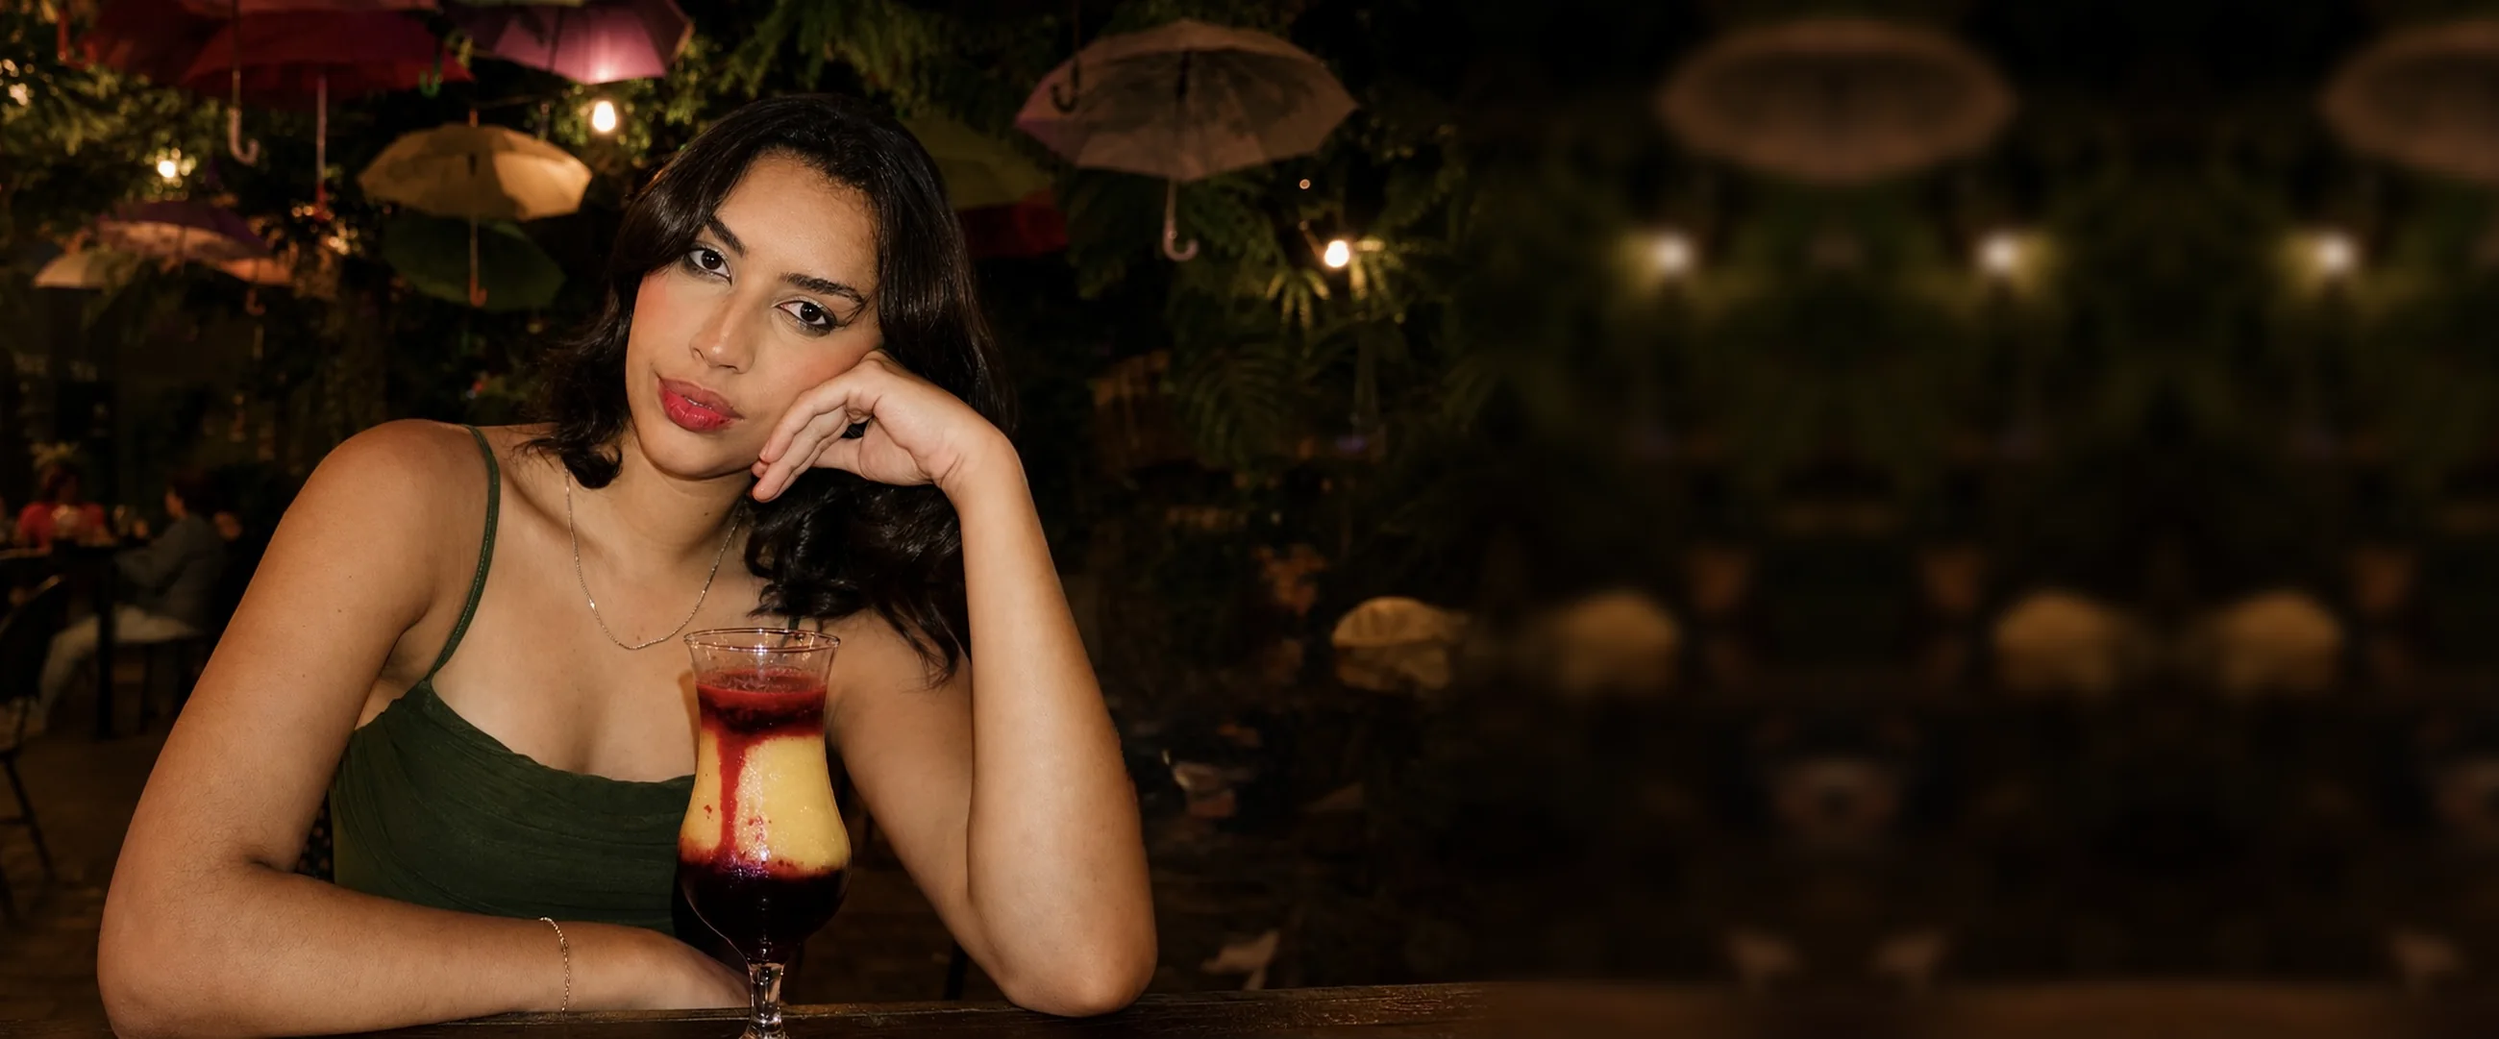
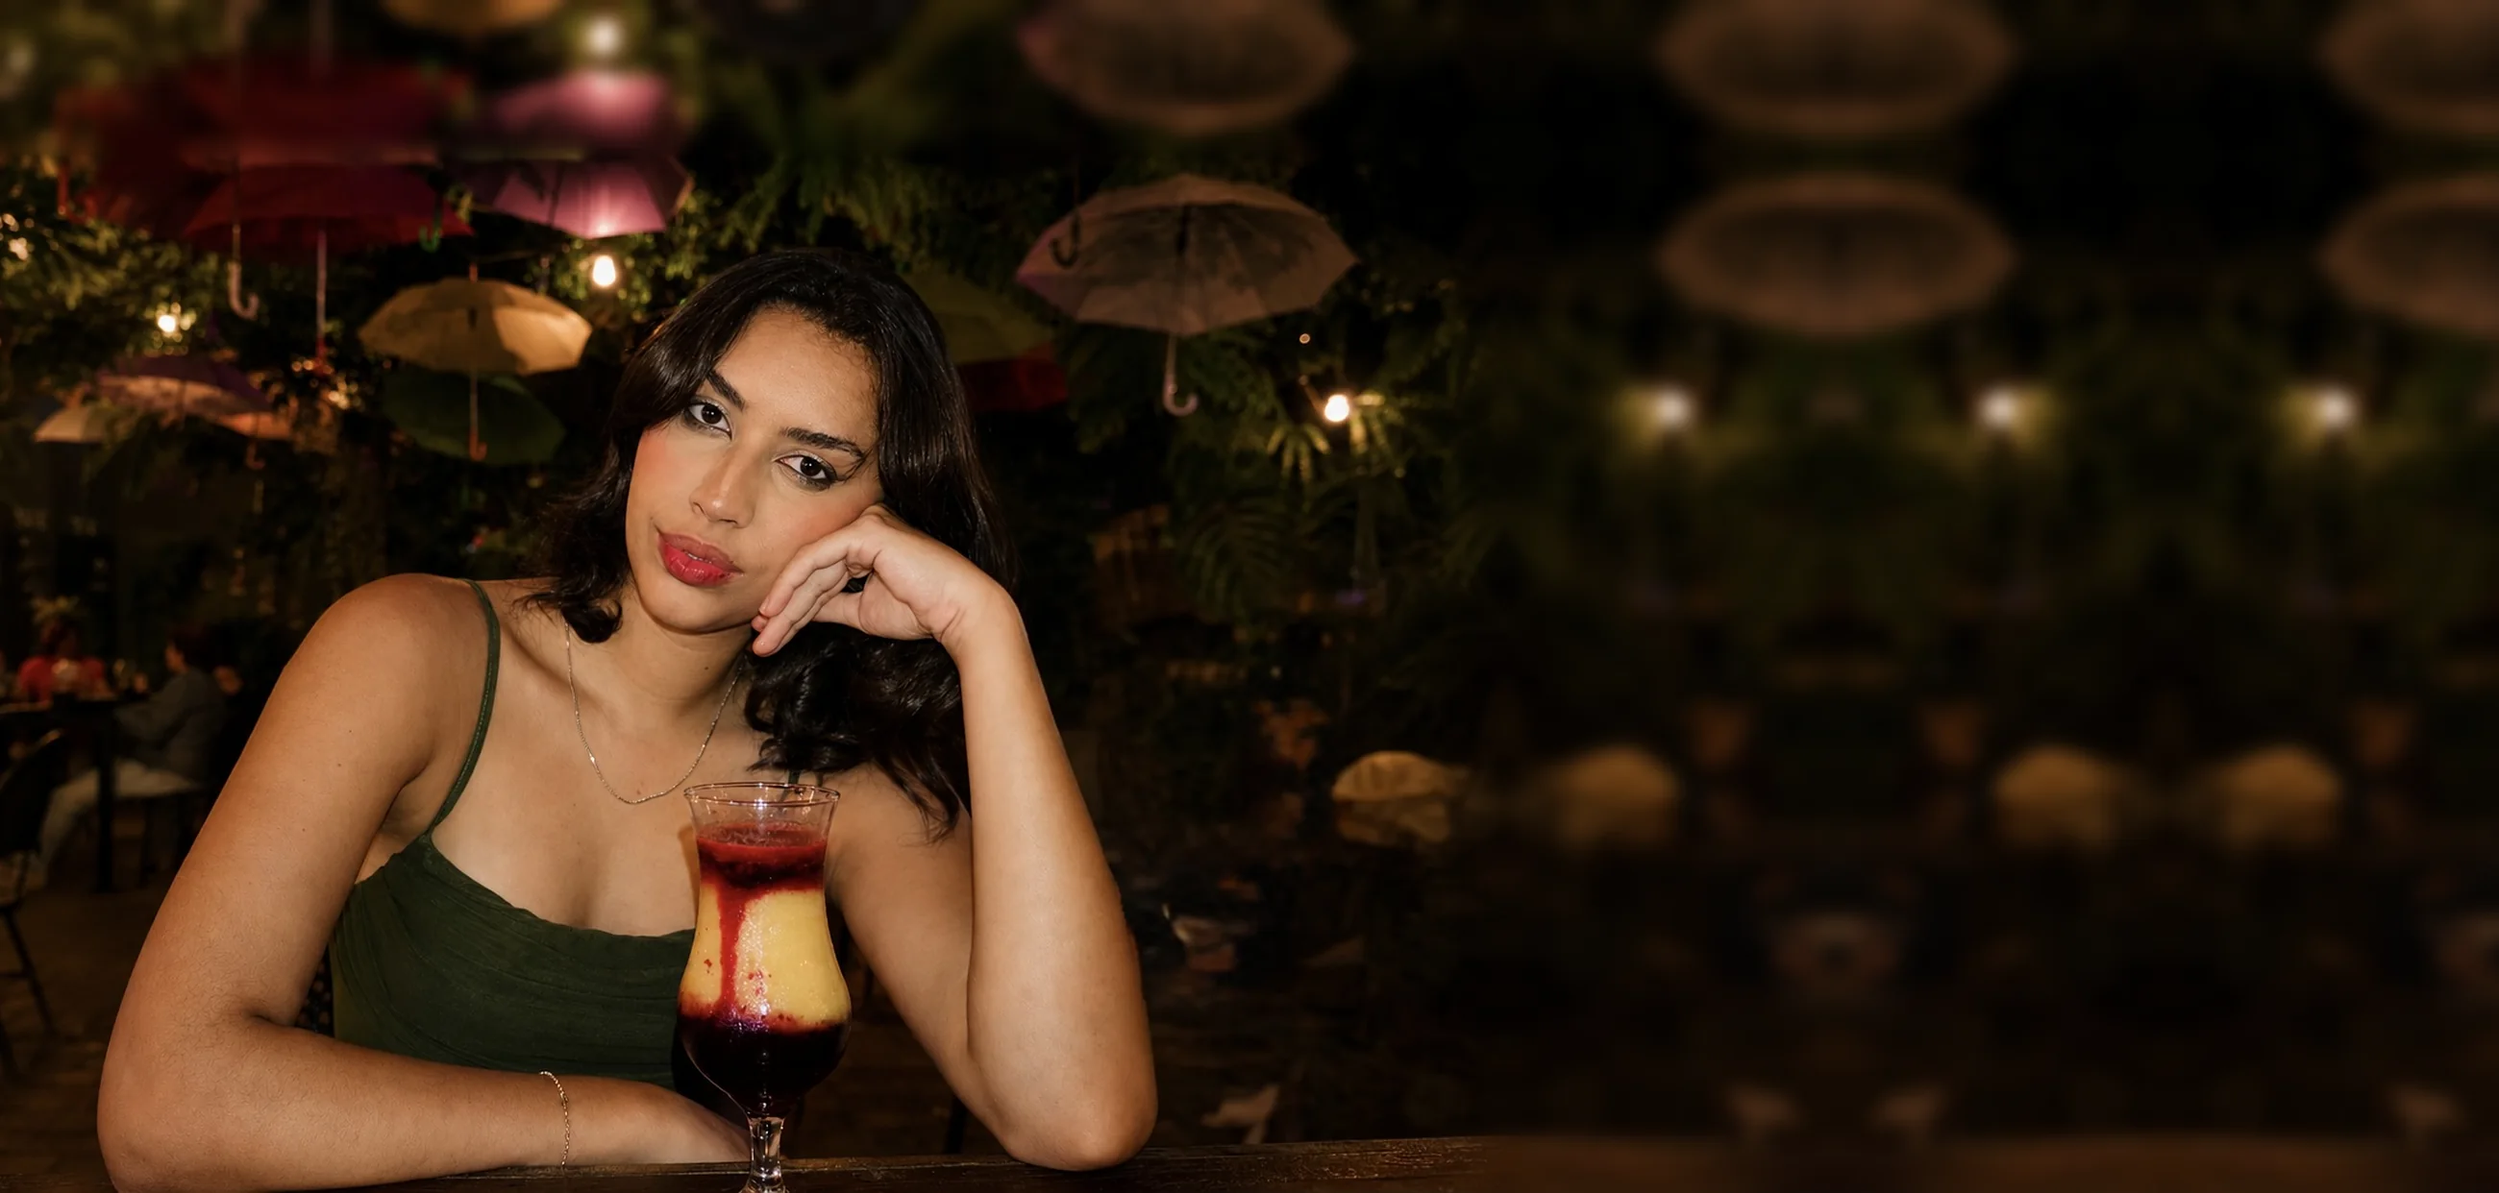
Fotos UGC em carrossel separadas dos pacotes, vídeo do Bombado e capa com espaço acima da cabeça
Seção própria de fotos com carrossel que passa sozinho e pausa com o
mouse, pacotes em seção própria, painel bege na Entrega, link Fotos no
menu e o vídeo do Bombado tocando no player limpo.

Claude-Session: https://claude.ai/code/session_01A54AKhirpisiy84ELcc8y1

diff --git a/index.html b/index.html
@@ -268,11 +268,6 @@
     .servico p { color: rgba(243, 238, 233, .74); margin: 0; font-size: .97rem; }
 
     /* ============ FOTOS UGC E PACOTES ============ */
-    .fotos-grade { display: grid; grid-template-columns: repeat(4, 1fr); gap: clamp(12px, 1.6vw, 20px); list-style: none; margin: 0 0 clamp(64px, 9vw, 110px); padding: 0; }
-    .fotos-grade li { margin: 0; }
-    .fotos-grade .midia { aspect-ratio: 4 / 5; height: 100%; }
-    .fotos-grade li:first-child { grid-column: span 2; grid-row: span 2; }
-    .fotos-grade li:first-child .midia { aspect-ratio: auto; min-height: 100%; }
     .pacotes-grade { display: grid; grid-template-columns: repeat(3, 1fr); gap: clamp(16px, 2vw, 26px); list-style: none; margin: 0; padding: 0; align-items: stretch; }
     .pacote { display: flex; flex-direction: column; background: var(--papel); border: 1px solid var(--linha); border-radius: var(--raio-g); padding: clamp(28px, 3.4vw, 40px); box-shadow: var(--sombra); }
     .pacote .selo-pacote { align-self: flex-start; font-size: .7rem; font-weight: 600; letter-spacing: .14em; text-transform: uppercase; padding: 6px 10px; border-radius: 999px; background: var(--laranja); color: var(--tinta); margin-bottom: 18px; }
@@ -543,7 +538,7 @@
     /* A foto ocupa só a área visível (entre o menu e a faixa de marcas), com menos zoom */
     .capa-fundo { position: absolute; top: var(--topo); left: 0; right: 0; bottom: var(--altura-faixa); z-index: 0; }
     /* Como no portfólio antigo: você à esquerda e o texto à direita, sobre o fundo do jardim */
-    .capa-fundo img { width: 100%; height: 100%; object-fit: cover; object-position: 0% 75%; }
+    .capa-fundo img { width: 100%; height: 100%; object-fit: cover; object-position: 0% 55%; }
     /* Sem degradê: a leitura vem do fundo escuro da foto e de uma sombra suave nas letras */
     .capa-texto { text-shadow: 0 1px 2px rgba(17, 13, 10, .6), 0 0 26px rgba(17, 13, 10, .55); }
     .capa-texto .botao, .capa-texto .numeros-capa { text-shadow: none; }
@@ -568,7 +563,7 @@
     .cabeca-secao { margin-bottom: clamp(28px, 4vw, 48px); }
     .titulo-secao { font-size: clamp(2.1rem, 4.4vw, 3.5rem); }
     .rotulo { margin-bottom: 14px; }
-    .metricas, .resultados, .fotos-grade { margin-bottom: clamp(44px, 6vw, 72px); }
+    .metricas, .resultados { margin-bottom: clamp(44px, 6vw, 72px); }
     .etapas { margin-bottom: clamp(40px, 6vw, 64px); }
     .trabalho .midia { aspect-ratio: 3 / 4; }
     .case { grid-template-columns: minmax(0, 300px) 1fr; }
@@ -597,7 +592,6 @@
     .pacote ul li { padding: 9px 0 9px 22px; font-size: .92rem; }
     .pacote ul li::before { top: 17px; }
     .pacote .para-quem { margin-bottom: 14px; }
-    .fotos-grade .midia { aspect-ratio: 1 / 1; }
     .metricas li { padding-top: 22px; }
     .sobre-foto { min-height: 380px; }
     .sobre-texto h2 { margin-bottom: 20px; }
@@ -637,10 +631,6 @@
     .pasta-drive h3 { font-size: 1.1rem; margin-bottom: 2px; }
     .pasta-drive p { font-size: .86rem; line-height: 1.45; }
 
-    /* Fotos UGC numa fileira só */
-    .fotos-grade { grid-template-columns: repeat(5, 1fr); }
-    .fotos-grade li:first-child { grid-column: auto; grid-row: auto; }
-    .fotos-grade .midia, .fotos-grade li:first-child .midia { aspect-ratio: 4 / 5; min-height: 0; }
 
     /* Selo da palmeira carimbado no canto da foto do Sobre mim */
     .sobre-visual { position: relative; }
@@ -664,6 +654,30 @@
     .papel { position: relative; isolation: isolate; }
     .papel::before { content: ""; position: absolute; inset: 0; z-index: -1; pointer-events: none; background: var(--amassado) center / 900px; mix-blend-mode: multiply; opacity: .3; }
 
+    /* Fotos UGC em carrossel */
+    .fotos-ugc { background: var(--creme-2) var(--textura); }
+    .fotos-trilho {
+      display: grid; grid-auto-flow: column; grid-auto-columns: calc((100% - 48px) / 4); column-gap: 16px;
+      list-style: none; margin: 0; padding: 0 0 4px; overflow-x: auto; scroll-snap-type: x mandatory; scrollbar-width: none; overscroll-behavior-x: contain;
+    }
+    .fotos-trilho::-webkit-scrollbar { display: none; }
+    .fotos-trilho li { scroll-snap-align: start; }
+    .fotos-trilho .midia { aspect-ratio: 4 / 5; }
+    .setas-fotos { justify-content: flex-end; margin-top: 18px; }
+
+    /* Entrega: passos em cima e a pasta do Drive num painel bege */
+    .etapa p { color: rgba(232, 220, 201, .66); }
+    .etapa .bolinha { font-size: 1.05rem; }
+    .painel-pasta { display: grid; grid-template-columns: minmax(160px, 220px) 1fr; gap: 28px; align-items: center; background: var(--bege); color: var(--tinta); border-radius: var(--raio-g); padding: 24px 28px; }
+    .painel-titulo { font-size: clamp(1.5rem, 2.2vw, 1.9rem); line-height: 1.15; color: var(--petroleo); }
+    .painel-titulo em { color: var(--petroleo); }
+    .painel-pasta .pasta-drive li { display: block; background: transparent; border: 0; padding: 0; }
+    .painel-pasta .pasta-drive .ico-pasta { width: 36px; height: 36px; margin-bottom: 10px; }
+    .painel-pasta .pasta-drive .ico-pasta { background: var(--petroleo); }
+    .painel-pasta .pasta-drive .ico-pasta svg { stroke: var(--bege); }
+    .painel-pasta .pasta-drive h3 { color: var(--tinta); font-size: 1.05rem; }
+    .painel-pasta .pasta-drive p { color: var(--tinta-suave); }
+
     /* ============ RESPONSIVO ============ */
     @media (max-width: 980px) {
       .capa-grade, .sobre-grade, .contato-grade { grid-template-columns: 1fr; }
@@ -678,6 +692,8 @@
       .etapa .bolinha { grid-row: span 2; margin: 0; }
       .etapas::before { left: 19px; }
       .pasta-drive { grid-template-columns: repeat(2, 1fr); }
+      .painel-pasta { grid-template-columns: 1fr; gap: 18px; }
+      .fotos-trilho { grid-auto-columns: calc((100% - 16px) / 2); }
       .servicos-grade { grid-template-columns: repeat(2, 1fr); }
       .servico, .servico:not(:nth-child(3n + 1)) { padding: 36px 24px 40px 0; border-left: 0; }
       .servico:nth-child(even) { padding-left: 24px; border-left: 1px solid rgba(243, 238, 233, .2); }
@@ -685,9 +701,6 @@
       .metricas li:nth-child(3) { padding-left: 0; border-left: 0; }
       .resultados { grid-template-columns: 1fr; }
       .pacotes-grade { grid-template-columns: 1fr; max-width: 520px; }
-      .fotos-grade { grid-template-columns: repeat(2, 1fr); }
-      .fotos-grade li:first-child { grid-column: 1 / -1; }
-      .fotos-grade li:first-child .midia { aspect-ratio: 4 / 3; }
     }
 
     @media (max-width: 860px) {
@@ -714,7 +727,8 @@
     @media (max-width: 640px) {
       body { font-size: 1rem; }
       .selo-circular { left: auto; right: -6px; bottom: 24px; width: 96px; }
-      .pasta-drive { grid-template-columns: 1fr; }
+      .pasta-drive { grid-template-columns: 1fr; gap: 16px; }
+      .fotos-trilho { grid-auto-columns: 72%; }
       .promessas { grid-template-columns: 1fr; }
       .promessas li { grid-template-columns: 44px 1fr; border-bottom: 1px solid var(--linha); }
       .galeria { grid-template-columns: repeat(2, 1fr); gap: 14px; }
@@ -791,6 +805,7 @@
           <li><a href="#sobre">Sobre</a></li>
           <li><a href="#destaques">Destaques</a></li>
           <li><a href="#trabalhos">Trabalhos</a></li>
+          <li><a href="#fotos">Fotos</a></li>
           <li><a href="#entrega">Entrega</a></li>
           <li><a href="#pacotes">Pacotes</a></li>
           <li><a href="#numeros">Números</a></li>
@@ -808,7 +823,7 @@
            Para trocar, substitua esses dois arquivos (mantenha os mesmos nomes). -->
       <picture class="capa-fundo">
         <source media="(max-width: 760px)" srcset="fotos/capa-celular.webp">
-        <img src="fotos/capa-larga.webp" alt="Yasmin Caetano à noite em um restaurante com jardim, com um drink de frutas vermelhas na mesa" width="2600" height="1081" fetchpriority="high">
+        <img src="fotos/capa-larga.webp" alt="Yasmin Caetano à noite em um restaurante com jardim, com um drink de frutas vermelhas na mesa" width="2600" height="1242" fetchpriority="high">
       </picture>
 
       <div class="container capa-conteudo">
@@ -891,7 +906,7 @@
           <button type="button" class="card-video case-video revelar" id="abreDestaque" aria-label="Assistir ao vídeo feito para o Bombado">
             <div class="midia g1" id="capaDestaque">
               <span class="play" aria-hidden="true"><svg viewBox="0 0 24 24"><path d="M6 4l14 8-14 8z"/></svg></span>
-              <span class="legenda-midia">vídeo Bombado 9:16</span>
+              <span class="legenda-midia">vídeo Bombado</span>
             </div>
           </button>
 
@@ -935,6 +950,27 @@
       </div>
     </section>
 
+    <!-- ============ FOTOS UGC (carrossel) ============ -->
+    <section class="fotos-ugc papel" id="fotos" aria-labelledby="titulo-fotos">
+      <div class="container">
+        <div class="cabeca-secao revelar">
+          <div>
+            <p class="rotulo">Fotos UGC</p>
+            <h2 class="titulo-secao" id="titulo-fotos">Imagem que dá <em>vontade</em> de ter.</h2>
+          </div>
+          <p class="apoio">Fotos com luz natural, textura e cenário, pensadas pra site, catálogo, anúncio e redes.</p>
+        </div>
+        <!-- As fotos vêm do array "fotosUgc" no script. Elas passam sozinhas e pausam com o mouse em cima. -->
+        <div class="carrossel-fotos revelar">
+          <ul class="fotos-trilho" id="listaFotos" tabindex="0" aria-label="Fotos UGC, use as setas para ver mais"></ul>
+          <div class="setas setas-fotos">
+            <button class="seta" id="fotoAnterior" type="button" aria-label="Foto anterior">←</button>
+            <button class="seta" id="fotoProxima" type="button" aria-label="Próxima foto">→</button>
+          </div>
+        </div>
+      </div>
+    </section>
+
     <!-- ============ ENTREGA: o caminho depois do sim ============ -->
     <section class="entrega" id="entrega" aria-labelledby="titulo-entrega">
       <div class="container">
@@ -947,27 +983,23 @@
         </div>
         <!-- As etapas e os itens da pasta vêm dos arrays "etapas" e "pastaDrive" no script -->
         <ol class="etapas revelar" id="listaEtapas"></ol>
-        <p class="subrotulo revelar">Na pasta do Drive vai</p>
-        <ul class="pasta-drive" id="listaPasta"></ul>
+        <div class="painel-pasta revelar">
+          <h3 class="painel-titulo">Na pasta do <em>Drive</em> vai</h3>
+          <ul class="pasta-drive" id="listaPasta"></ul>
+        </div>
       </div>
     </section>
 
-    <!-- ============ FOTOS UGC E PACOTES ============ -->
+    <!-- ============ PACOTES ============ -->
     <section class="pacotes papel" id="pacotes" aria-labelledby="titulo-pacotes">
       <div class="container">
         <div class="cabeca-secao revelar">
           <div>
-            <p class="rotulo">Fotos UGC e pacotes</p>
-            <h2 class="titulo-secao" id="titulo-pacotes">Imagem que dá <em>vontade</em> de ter.</h2>
+            <p class="rotulo">Investimento</p>
+            <h2 class="titulo-secao" id="titulo-pacotes">Pacotes pra sua marca <em>começar</em>.</h2>
           </div>
-          <p class="apoio">Fotos com luz natural, textura e cenário, pensadas pra site, catálogo, anúncio e redes. E pacotes prontos pra sua marca começar.</p>
+          <p class="apoio">Pacotes fechados pra facilitar sua decisão. Nichos ou exclusividade sob medida? Só chamar.</p>
         </div>
-
-        <!-- As fotos vêm do array "fotosUgc" no script -->
-        <ul class="fotos-grade" id="listaFotos"></ul>
-
-        <p class="subrotulo revelar">Pacotes</p>
-        <p class="pacotes-nota revelar">Pacotes fechados pra facilitar sua decisão. Nichos ou exclusividade sob medida? Só chamar.</p>
         <!-- Os pacotes vêm do array "pacotes" no script -->
         <ul class="pacotes-grade" id="listaPacotes"></ul>
       </div>
@@ -1196,7 +1228,7 @@
     // youtube: o código do vídeo no YouTube (o que vem depois de "shorts/" no link)
     // arquivo: o caminho do vídeo enviado pro GitHub, ex: "videos/bombado.mp4"
     // Enquanto os dois estiverem vazios, o card abre o reel no Instagram.
-    const VIDEO_DESTAQUE = { youtube: "", arquivo: "", capa: "", instagram: "https://www.instagram.com/reel/DcM0mfYTfIs/" };
+    const VIDEO_DESTAQUE = { youtube: "GMK9yJPUJbk", arquivo: "", capa: "", instagram: "https://www.instagram.com/reel/DcM0mfYTfIs/" };
 
     // Quantos vídeos aparecem antes do botão "Ver mais vídeos"
     const VIDEOS_POR_VEZ = 12;
@@ -1210,15 +1242,18 @@
       { valor: 70.9, prefixo: "", sufixo: " mil", rotulo: "visualizações em um único vídeo" }
     ];
 
-    // Fotos UGC da seção "Fotos UGC e pacotes". A primeira aparece maior.
-    // src: deixe "" para usar o degradê, ou coloque o caminho da foto, ex: "fotos/ugc-01.jpg"
+    // Fotos UGC do carrossel. Elas passam sozinhas e pausam com o mouse em cima.
+    // src: deixe "" para usar o degradê, ou coloque o caminho da foto, ex: "fotos/ugc-01.webp"
     // alt: descreva a foto pra quem usa leitor de tela.
     const fotosUgc = [
-      { src: "", alt: "Produto de skincare em cenário com luz natural", legenda: "produto em cenário 4:5" },
-      { src: "", alt: "Close da textura de um produto", legenda: "close de textura 4:5" },
-      { src: "", alt: "Mesa posta com produto de gastronomia", legenda: "mesa posta 4:5" },
-      { src: "", alt: "Look com acessório da marca", legenda: "moda 4:5" },
-      { src: "", alt: "Produto na mão da creator", legenda: "produto na mão 4:5" }
+      { src: "", alt: "Produto de skincare em cenário com luz natural", legenda: "produto em cenário" },
+      { src: "", alt: "Close da textura de um produto", legenda: "close de textura" },
+      { src: "", alt: "Mesa posta com produto de gastronomia", legenda: "mesa posta" },
+      { src: "", alt: "Look com acessório da marca", legenda: "moda" },
+      { src: "", alt: "Produto na mão da creator", legenda: "produto na mão" },
+      { src: "", alt: "Produto de cabelo no banheiro", legenda: "haircare" },
+      { src: "", alt: "Prato servido em restaurante", legenda: "gastronomia" },
+      { src: "", alt: "Acessório de tecnologia na mesa", legenda: "tecnologia" }
     ];
 
     // Pacotes. Edite os itens e o preço (ou escreva "Sob consulta").
@@ -1517,10 +1552,35 @@
     ).join("");
 
     // Fotos UGC
-    document.getElementById("listaFotos").innerHTML = fotosUgc.map((f, i) => f.src
-      ? `<li class="revelar"><div class="midia"><img src="${esc(f.src)}" alt="${esc(f.alt)}" loading="lazy"></div></li>`
-      : `<li class="revelar"><div class="midia ${degradeS[(i + 3) % degradeS.length]}" role="img" aria-label="Espaço para foto: ${esc(f.alt)}"><span class="legenda-midia">${esc(f.legenda)}</span></div></li>`
+    const trilhoFotos = document.getElementById("listaFotos");
+    trilhoFotos.innerHTML = fotosUgc.map((f, i) => f.src
+      ? `<li><div class="midia"><img src="${esc(f.src)}" alt="${esc(f.alt)}" loading="lazy"></div></li>`
+      : `<li><div class="midia ${degradeS[(i + 3) % degradeS.length]}" role="img" aria-label="Espaço para foto: ${esc(f.alt)}"><span class="legenda-midia">${esc(f.legenda)}</span></div></li>`
     ).join("");
+    function passoFoto() {
+      const item = trilhoFotos.querySelector("li");
+      return item ? item.getBoundingClientRect().width + parseFloat(getComputedStyle(trilhoFotos).columnGap || 0) : 300;
+    }
+    function moveFotos(direcao) {
+      const fim = trilhoFotos.scrollWidth - trilhoFotos.clientWidth;
+      const comportamento = menosMovimento ? "auto" : "smooth";
+      if (direcao > 0 && trilhoFotos.scrollLeft >= fim - 4) trilhoFotos.scrollTo({ left: 0, behavior: comportamento });
+      else if (direcao < 0 && trilhoFotos.scrollLeft <= 4) trilhoFotos.scrollTo({ left: fim, behavior: comportamento });
+      else trilhoFotos.scrollBy({ left: direcao * passoFoto(), behavior: comportamento });
+    }
+    document.getElementById("fotoAnterior").addEventListener("click", () => moveFotos(-1));
+    document.getElementById("fotoProxima").addEventListener("click", () => moveFotos(1));
+    trilhoFotos.addEventListener("keydown", e => {
+      if (e.key === "ArrowRight") { e.preventDefault(); moveFotos(1); }
+      if (e.key === "ArrowLeft") { e.preventDefault(); moveFotos(-1); }
+    });
+    // Passa sozinho a cada 3,5 segundos; pausa com o mouse em cima, com o foco ou com o dedo
+    let fotosPausadas = false;
+    const carrosselFotos = trilhoFotos.parentElement;
+    ["mouseenter", "focusin", "touchstart"].forEach(ev => carrosselFotos.addEventListener(ev, () => { fotosPausadas = true; }, { passive: true }));
+    ["mouseleave", "focusout"].forEach(ev => carrosselFotos.addEventListener(ev, () => { fotosPausadas = false; }));
+    carrosselFotos.addEventListener("touchend", () => setTimeout(() => { fotosPausadas = false; }, 4000), { passive: true });
+    if (!menosMovimento) setInterval(() => { if (!fotosPausadas && !document.hidden && !videoAberto()) moveFotos(1); }, 3500);
 
     // Pacotes: o botão leva pro formulário com o nome do pacote já escrito
     document.getElementById("listaPacotes").innerHTML = pacotes.map(pc =>
